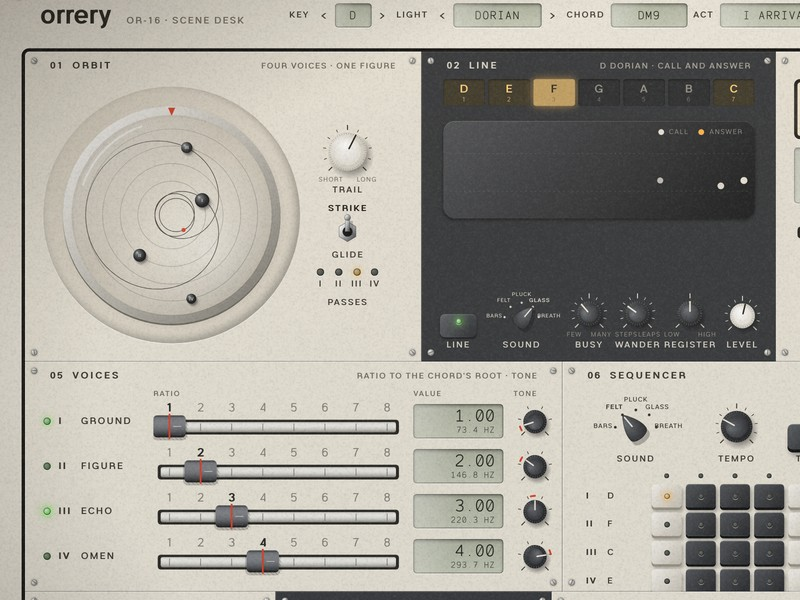
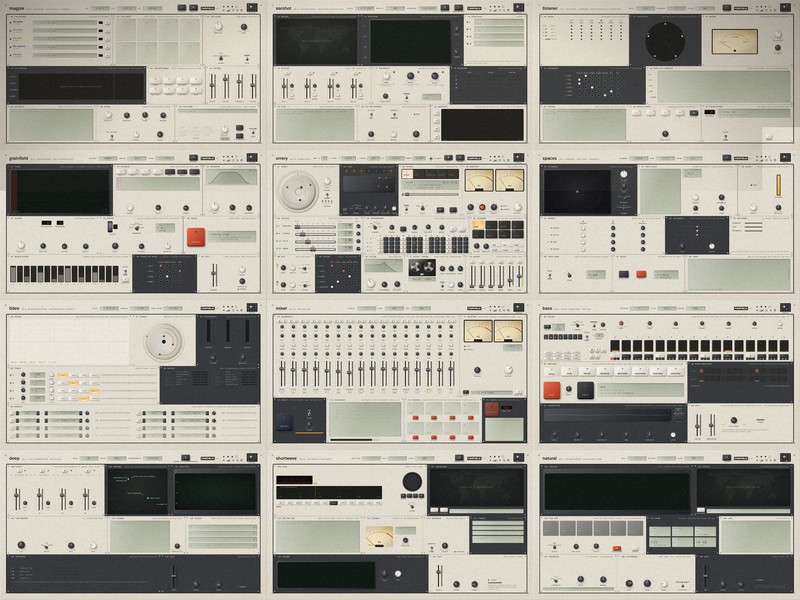
FarField thumbnail: twelve cabinets, three across and four down
Claude-Session: https://claude.ai/code/session_01UqijBpjZY86v9hDNERjKV2

diff --git a/projects/index.html b/projects/index.html
@@ -62,7 +62,7 @@
     <span class="label i-go" aria-hidden="true">→</span>
   </a></li>
   <li><a class="row" href="https://farfield.jontoews.com">
-    <span class="i-thumb"><img src="../assets/thumbs/farfield.jpg?v=5fd6320f" alt="" width="800" height="600" loading="lazy" decoding="async"></span>
+    <span class="i-thumb"><img src="../assets/thumbs/farfield.jpg?v=26e38101" alt="" width="800" height="600" loading="lazy" decoding="async"></span>
     <span class="i-head"><span class="title i-title">FarField</span><span class="body i-note">An audio adventure to explore and get lost in. It’s okay if you don’t know what you’re doing. Headphones recommended.</span></span>
     <span class="label i-field"><span class="stretch">Instrument · Web Audio</span></span>
     <span class="label i-go" aria-hidden="true">→</span>

diff --git a/index.html b/index.html
@@ -81,7 +81,7 @@
     <span class="label i-go" aria-hidden="true">→</span>
   </a></li>
   <li><a class="row" href="https://farfield.jontoews.com">
-    <span class="i-thumb"><img src="assets/thumbs/farfield.jpg?v=5fd6320f" alt="" width="800" height="600" loading="lazy" decoding="async"></span>
+    <span class="i-thumb"><img src="assets/thumbs/farfield.jpg?v=26e38101" alt="" width="800" height="600" loading="lazy" decoding="async"></span>
     <span class="i-head"><span class="title i-title">FarField</span><span class="body i-note">An audio adventure to explore and get lost in. It’s okay if you don’t know what you’re doing. Headphones recommended.</span></span>
     <span class="label i-field"><span class="stretch">Instrument · Web Audio</span></span>
     <span class="label i-go" aria-hidden="true">→</span>
